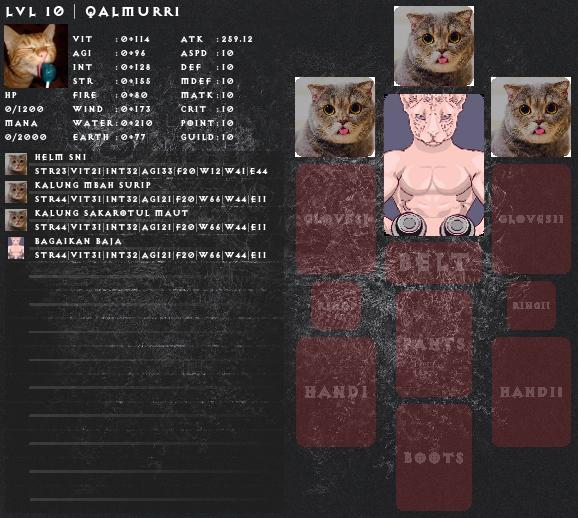
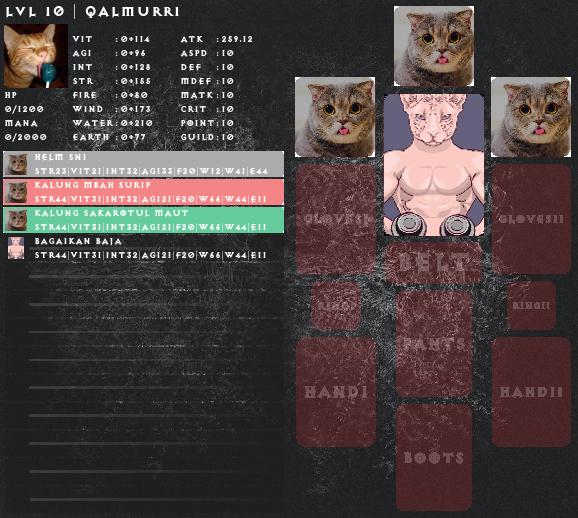
Add files via upload

Changed region(s): [[0.0, 0.278, 0.4983, 0.4633]]

diff --git a/cogs/commands/profile.py b/cogs/commands/profile.py
@@ -76,55 +76,36 @@ class profile(commands.Cog):
 
                             head_data = player.get("game", {}).get("rpg", {}).get("use", {}).get("head", {})
                             if head_data :
-                                head_name = head_data.get("name", None)
+                                head_name, head_class = (head_data.get(key, None) for key in ("name", "class"))
                                 head_id, head_str, head_vit, head_int, head_agi, head_fire, head_water, head_wind, head_earth = (head_data.get(key, 0) for key in ("id_item", "str", "vit", "int", "agi", "fire", "water", "wind", "earth"))
-                                head_humbnail = Image.open(f"assets/rpg/item/head/{head_id}.png")
-                                head_icon = Image.open(f"assets/rpg/item/head/{head_id}.png")
-                                a.paste(head_humbnail.resize((80, 80)), (394, 6))
-                                a.paste(head_icon.resize((22, 22)), (5, 153))
+                                a.paste(Image.open(f"assets/rpg/class/{head_class}.jpg").resize((281, 26)), (3, 151)) #Class
+                                a.paste(Image.open(f"assets/rpg/item/head/{head_id}.png").resize((80, 80)), (394, 6)) #Thumbnail
+                                a.paste(Image.open(f"assets/rpg/item/head/{head_id}.png").resize((22, 22)), (5, 153)) #Icon
                                 b.text((34, 151),f"{head_name}\nSTR{head_str}|VIT{head_vit}|INT{head_int}|AGI{head_agi}|F{head_fire}|W{head_water}|W{head_wind}|E{head_earth}", font=c, fill="white")
                             else:
                                 head_str = head_vit = head_int = head_agi = head_fire = head_water = head_wind = head_earth = 0
 
                             necklace1_data = player.get("game", {}).get("rpg", {}).get("use", {}).get("necklace1", {})
-                            necklace1_id = necklace1_data.get("id_item", None)
-                            necklace1_name = necklace1_data.get("name", None)
-                            necklace1_str = necklace1_data.get("str", 0)
-                            necklace1_vit = necklace1_data.get("vit", 0)
-                            necklace1_int = necklace1_data.get("int", 0)
-                            necklace1_agi = necklace1_data.get("agi", 0)
-                            necklace1_fire = necklace1_data.get("fire", 0)
-                            necklace1_water = necklace1_data.get("water", 0)
-                            necklace1_wind = necklace1_data.get("wind", 0)
-                            necklace1_earth = necklace1_data.get("earth", 0)
-                            if necklace1_id is not None:
-                                necklace1_thumbnail = Image.open(f"assets/rpg/item/necklace/{necklace1_id}.png")
-                                necklace1_icon = Image.open(f"assets/rpg/item/necklace/{necklace1_id}.png")
-                                a.paste(necklace1_thumbnail.resize((80, 80)), (295, 77))
-                                a.paste(necklace1_icon.resize((22, 22)), (5, 181))
+                            if necklace1_data :
+                                necklace1_name, necklace1_class = (necklace1_data.get(key, None) for key in ("name", "class"))
+                                necklace1_id, necklace1_str, necklace1_vit, necklace1_int, necklace1_agi, necklace1_fire, necklace1_water, necklace1_wind, necklace1_earth = (necklace1_data.get(key, 0) for key in ("id_item", "str", "vit", "int", "agi", "fire", "water", "wind", "earth"))
+                                a.paste(Image.open(f"assets/rpg/class/{necklace1_class}.jpg").resize((281, 26)), (3, 179)) #Class
+                                a.paste(Image.open(f"assets/rpg/item/necklace/{necklace1_id}.png").resize((80, 80)), (295, 77)) #Thumbnail
+                                a.paste(Image.open(f"assets/rpg/item/necklace/{necklace1_id}.png").resize((22, 22)), (5, 181)) #Icon
                                 b.text((34, 179), f"{necklace1_name}\nSTR{necklace1_str}|VIT{necklace1_vit}|INT{necklace1_int}|AGI{necklace1_agi}|F{necklace1_fire}|W{necklace1_water}|W{necklace1_wind}|E{necklace1_earth}", font=c, fill="white")
                             else:
-                                pass
+                                necklace1_str = necklace1_vit = necklace1_int = necklace1_agi = necklace1_fire = necklace1_water = necklace1_wind = necklace1_earth = 0
 
                             necklace2_data = player.get("game", {}).get("rpg", {}).get("use", {}).get("necklace2", {})
-                            necklace2_id = necklace2_data.get("id_item", None)
-                            necklace2_name = necklace2_data.get("name", None)
-                            necklace2_str = necklace2_data.get("str", 0)
-                            necklace2_vit = necklace2_data.get("vit", 0)
-                            necklace2_int = necklace2_data.get("int", 0)
-                            necklace2_agi = necklace2_data.get("agi", 0)
-                            necklace2_fire = necklace2_data.get("fire", 0)
-                            necklace2_water = necklace2_data.get("water", 0)
-                            necklace2_wind = necklace2_data.get("wind", 0)
-                            necklace2_earth = necklace2_data.get("earth", 0)
-                            if necklace2_id is not None:
-                                necklace2_thumbnail = Image.open(f"assets/rpg/item/necklace/{necklace2_id}.png")
-                                necklace2_icon = Image.open(f"assets/rpg/item/necklace/{necklace2_id}.png")
-                                a.paste(necklace2_thumbnail.resize((80, 80)), (491, 77))
-                                a.paste(necklace2_icon.resize((22, 22)), (5, 209))
+                            if necklace2_data :
+                                necklace2_name, necklace2_class = (necklace2_data.get(key, None) for key in ("name", "class"))
+                                necklace2_id, necklace2_str, necklace2_vit, necklace2_int, necklace2_agi, necklace2_fire, necklace2_water, necklace2_wind, necklace2_earth = (necklace2_data.get(key, 0) for key in ("id_item", "str", "vit", "int", "agi", "fire", "water", "wind", "earth"))
+                                a.paste(Image.open(f"assets/rpg/class/{necklace2_class}.jpg").resize((281, 26)), (3, 207)) #Class
+                                a.paste(Image.open(f"assets/rpg/item/necklace/{necklace2_id}.png").resize((80, 80)), (491, 77)) #Thumbnail
+                                a.paste(Image.open(f"assets/rpg/item/necklace/{necklace2_id}.png").resize((22, 22)), (5, 209)) #Icon
                                 b.text((34, 207), f"{necklace2_name}\nSTR{necklace2_str}|VIT{necklace2_vit}|INT{necklace2_int}|AGI{necklace2_agi}|F{necklace2_fire}|W{necklace2_water}|W{necklace2_wind}|E{necklace2_earth}", font=c, fill="white")
                             else:
-                                pass
+                                necklace2_str = necklace2_vit = necklace2_int = necklace2_agi = necklace2_fire = necklace2_water = necklace2_wind = necklace2_earth = 0
 
                             body_data = player.get("game", {}).get("rpg", {}).get("use", {}).get("body", {})
                             body_id = body_data.get("id_item", None)
